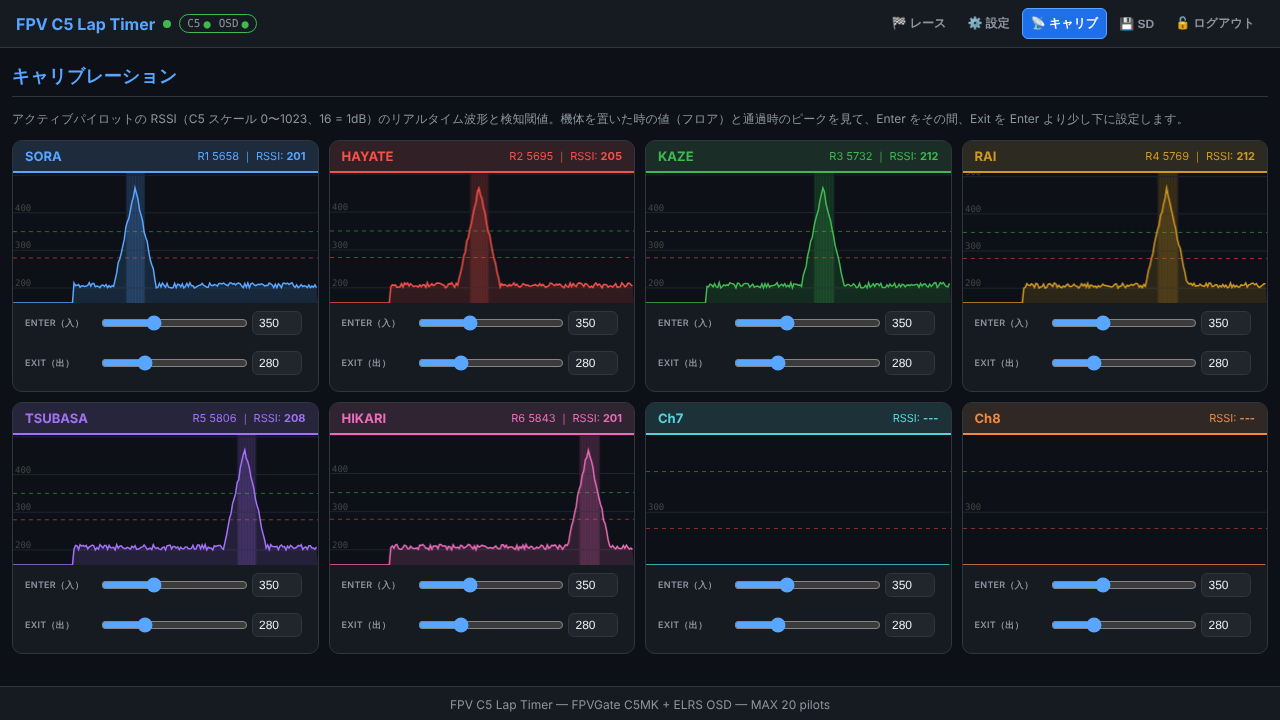
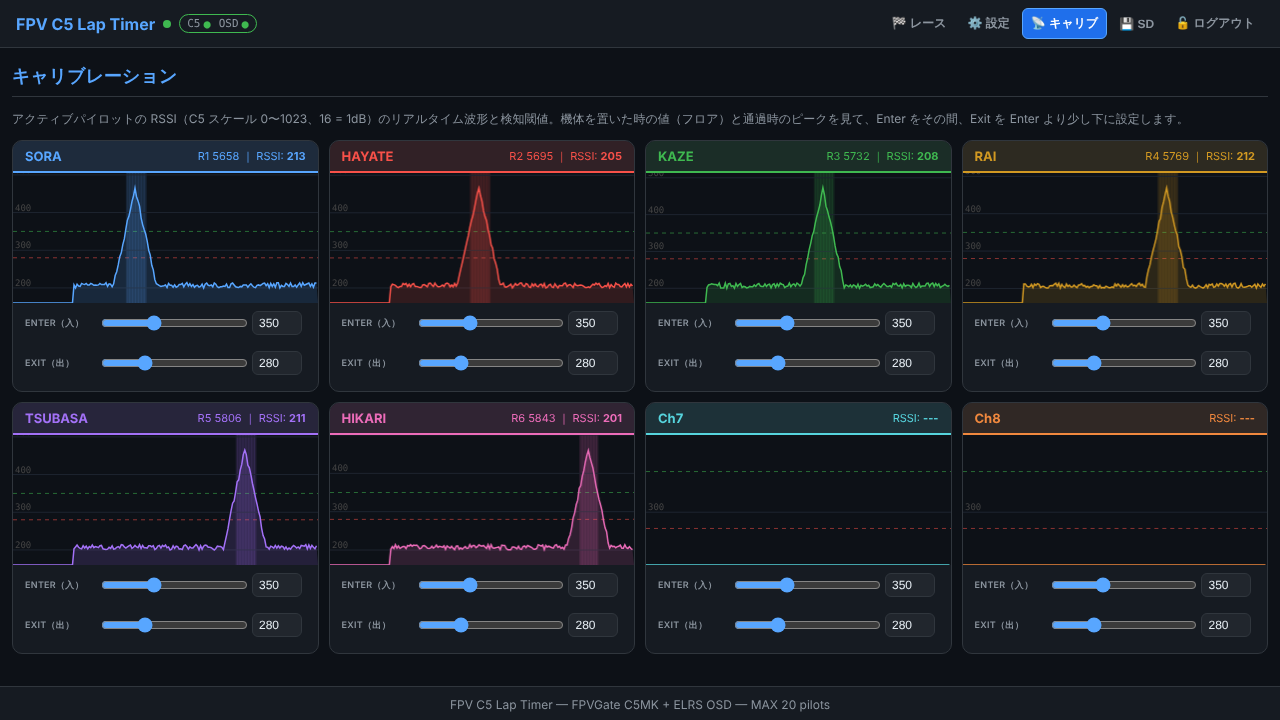
Web UI: the CROSSING badge no longer hides the pilot's name
The badge took space in the card header, so while a pilot was in the
gate the name shrank to a letter or vanished (phones and the 8-column PC
layout). It now floats over the right end of the header, covering the
frequency and lap count only while it shows.

The README screenshots are retaken with a pilot in the gate.

Claude-Session: https://claude.ai/code/session_01Q2Uv87iB1MVGM6bMxL52gL

diff --git a/data/index.html b/data/index.html
@@ -58,7 +58,7 @@ button:not(:disabled):hover{filter:brightness(1.15)}
 /* ── Pilot race grid ── */
 .pilot-race-grid{display:grid;grid-template-columns:repeat(4,1fr);gap:8px}
 .pilot-race-card{background:var(--sf);border:1px solid var(--bd);border-radius:8px;overflow:hidden}
-.pilot-card-header{display:flex;align-items:center;gap:6px;padding:7px 10px;font-weight:700;font-size:13px}
+.pilot-card-header{position:relative;display:flex;align-items:center;gap:6px;padding:7px 10px;font-weight:700;font-size:13px}
 .pilot-card-header.p0{background:var(--p0-bg);border-bottom:2px solid var(--p0);color:var(--p0)}
 .pilot-card-header.p1{background:var(--p1-bg);border-bottom:2px solid var(--p1);color:var(--p1)}
 .pilot-card-header.p2{background:var(--p2-bg);border-bottom:2px solid var(--p2);color:var(--p2)}
@@ -69,7 +69,9 @@ button:not(:disabled):hover{filter:brightness(1.15)}
 .pilot-card-header.p7{background:var(--p7-bg);border-bottom:2px solid var(--p7);color:var(--p7)}
 .p-name{flex:1;white-space:nowrap;overflow:hidden;text-overflow:ellipsis}
 .p-lapcount{font-size:11px;font-weight:normal;color:var(--muted);white-space:nowrap}
-.crossing-badge{font-size:9px;font-weight:700;letter-spacing:.5px;padding:2px 6px;border-radius:3px;background:#333;color:var(--muted);display:none}
+/* Floats over the right end of the header (frequency / lap count) while the
+   pilot is in the gate, so it never squeezes the pilot's name. */
+.crossing-badge{position:absolute;right:6px;top:50%;transform:translateY(-50%);font-size:9px;font-weight:700;letter-spacing:.5px;padding:3px 7px;border-radius:3px;background:#333;color:var(--muted);display:none;box-shadow:0 0 0 2px var(--sf)}
 .crossing-badge.active{display:inline-block;background:currentColor;color:#000}
 .rssi-mini-bar{display:flex;align-items:center;gap:5px;padding:3px 8px;background:var(--sf2)}
 .rssi-mini-label{font-size:9px;color:var(--muted);width:26px}
